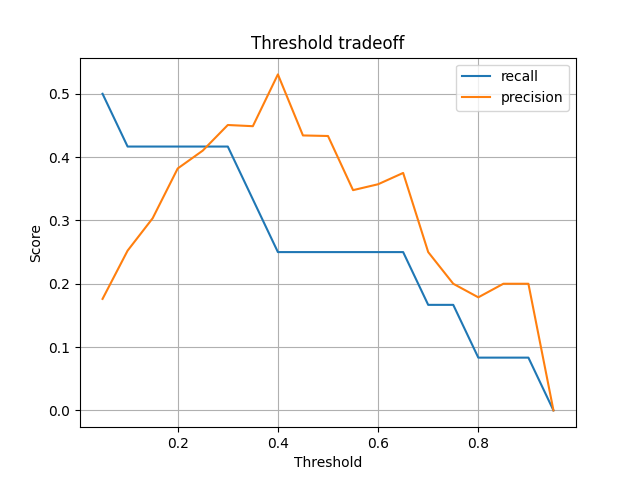
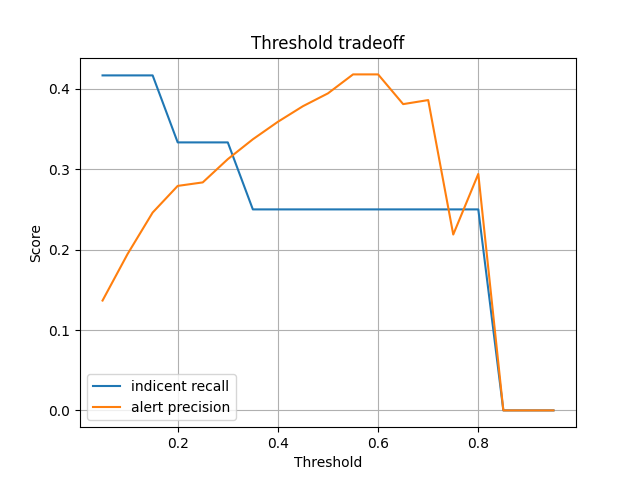
metrics changed

diff --git a/src/evaluate.py b/src/evaluate.py
@@ -33,6 +33,12 @@ def find_incidents(labels):
     return incidents
 
 
+import numpy as np
+import pandas as pd
+
+import numpy as np
+import pandas as pd
+
 def evaluate_model(model, X, y, threshold=0.5):
     """
     Incident-based evaluation of model predictions.
@@ -42,9 +48,14 @@ def evaluate_model(model, X, y, threshold=0.5):
         - y_prob: predicted probabilities for PR analysis
 
     Metrics:
-        - precision: TP / (TP + FP)
-        - recall: detected incidents / total incidents
-        - avg_detection_distance: first alert distance per incident
+        - alert_precision: TP_alert / (TP_alert + FP_alert)
+        - incident_recall: detected_incidents / total_incidents
+        - avg_detection_distance: mean lead time per detected incident
+        - detected_incidents: number of detected incidents
+        - total_incidents: total number of incidents
+        - alerts_count: total number of alerts (TP + FP)
+        - valid_alerts: true positives
+        - invalid_alerts: false positives
         - false_alert_rate: FP / non-incident timesteps
     """
     # predict probabilities and binarize with threshold
@@ -63,7 +74,7 @@ def evaluate_model(model, X, y, threshold=0.5):
 
     # iterate over predictions to track TP, FP, and first alert per incident
     for i, pred in enumerate(y_pred):
-        # updating the closest incident if the current already happened
+        # update current incident if past
         if current_incident is not None and i == current_incident:
             current_incident_idx += 1
             current_incident = incidents[current_incident_idx] if current_incident_idx < len(incidents) else None
@@ -73,27 +84,35 @@ def evaluate_model(model, X, y, threshold=0.5):
                 false_positives += 1
             else:
                 true_positives += 1
-                # record first detection distance for this incident
                 if current_incident and incident_dict[current_incident] is None:
                     incident_dict[current_incident] = current_incident - i
 
     # aggregate metrics
+    total_incidents = len(incidents)
     detected_incidents = sum(1 for v in incident_dict.values() if v is not None)
     lead_times = [v for v in incident_dict.values() if v is not None]
     avg_distance = np.mean(lead_times) if lead_times else np.nan
 
-    precision = true_positives / (true_positives + false_positives) if (true_positives + false_positives) > 0 else 0
-    recall = detected_incidents / len(incidents) if incidents else 0
+    valid_alerts = true_positives
+    invalid_alerts = false_positives
+    alerts_count = valid_alerts + invalid_alerts
+
+    alert_precision = valid_alerts / alerts_count if alerts_count > 0 else 0
+    incident_recall = detected_incidents / total_incidents if total_incidents > 0 else 0
     non_incident_steps = (y == 0).sum()
-    false_alert_rate = false_positives / non_incident_steps if non_incident_steps > 0 else np.nan
+    false_alert_rate = invalid_alerts / non_incident_steps if non_incident_steps > 0 else np.nan
 
     # create results DataFrame
     results_df = pd.DataFrame([{
         "threshold": threshold,
-        "precision": precision,
-        "recall": recall,
+        "alert_precision": alert_precision,
+        "incident_recall": incident_recall,
         "avg_detection_distance": avg_distance,
         "detected_incidents": detected_incidents,
+        "total_incidents": total_incidents,
+        "alerts_count": alerts_count,
+        "valid_alerts": valid_alerts,
+        "invalid_alerts": invalid_alerts,
         "false_alert_rate": false_alert_rate
     }])
 

diff --git a/src/plots.py b/src/plots.py
@@ -71,8 +71,8 @@ def plot_threshold_tradeoff(results, save_dir):
     Plot precision and recall as a function of threshold.
     """
     plt.figure()
-    plt.plot(results["threshold"], results["recall"], label="recall")
-    plt.plot(results["threshold"], results["precision"], label="precision")
+    plt.plot(results["threshold"], results["incident_recall"], label="indicent recall")
+    plt.plot(results["threshold"], results["alert_precision"], label="alert precision")
     plt.xlabel("Threshold")
     plt.ylabel("Score")
     plt.title("Threshold tradeoff")